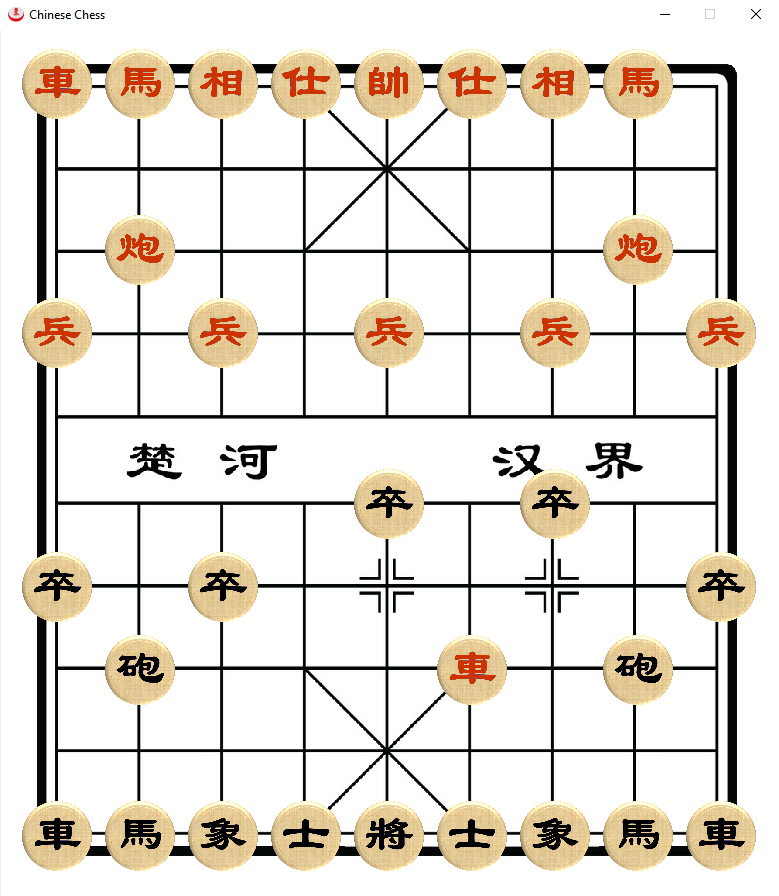
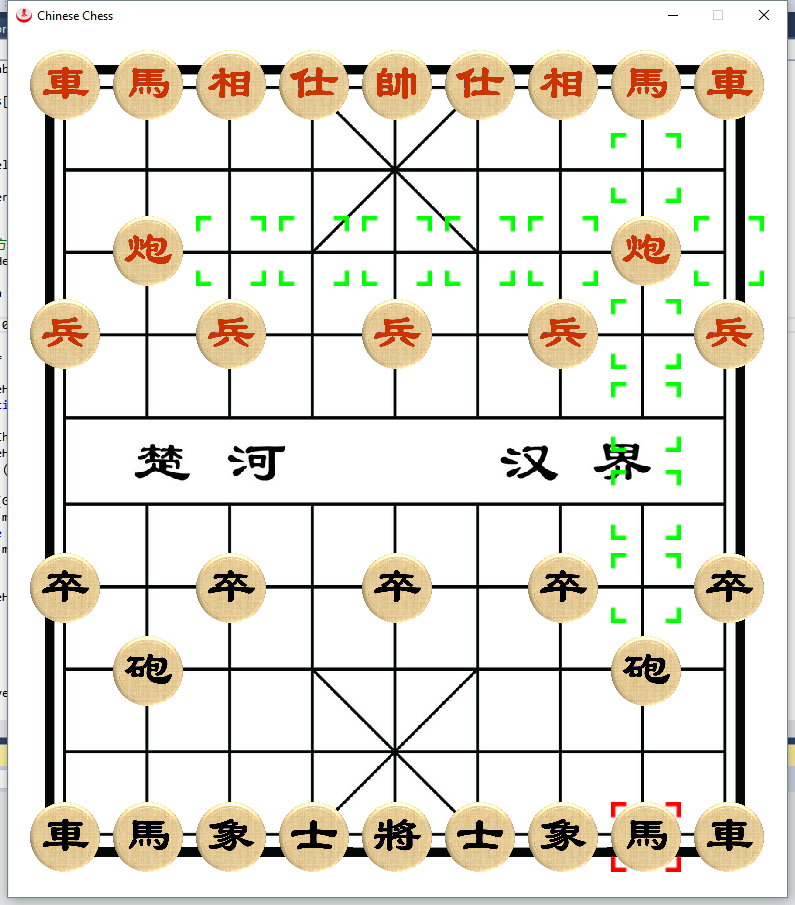
add move tips

Changed region(s): [[0.0, 0.0, 1.0, 1.0], [0.5237, 0.125, 0.5546, 0.1562], [0.4313, 0.125, 0.4621, 0.1562]]

diff --git a/ChineseChess/GameController.cs b/ChineseChess/GameController.cs
@@ -8,17 +8,31 @@ namespace ChineseChess
 {
     class GameController
     {
-        private int[][] chessMan;
-        private bool[][] avalChess;
+        private const int RowSum = 10;  //行总数
+        private const int ColSum = 9;   //列总数
+        private int[][] chessMan;   //代表着全场象棋的数组
+        private bool[][] avalChess; //选择棋子时的可选表
+        private int[][] moveHelper; //移动棋子时的提示表
         private bool whosTurn;
         private const int minX = 0, minY = 0, maxX = 8, maxY = 9;
+
+        public GameController()
+        {
+            //申请空间
+            chessMan = new int[RowSum][];
+            avalChess = new bool[RowSum][];
+            moveHelper = new int[RowSum][];
+            for (int i = 0; i < RowSum; ++i)
+            {
+                chessMan[i] = new int[ColSum];
+                avalChess[i] = new bool[ColSum];
+                moveHelper[i] = new int[ColSum];
+            }
+        }
 
         public void Reset()
         {
             //初始化棋盘
-            chessMan = new int[10][];
-            for (int i = 0; i < chessMan.Length; ++i)
-                chessMan[i] = new int[9];
             for(int i = 0; i < chessMan.Length; ++i)
                 for(int j = 0; j < chessMan[i].Length; ++j)
                     switch (i * chessMan[i].Length + j)
@@ -41,10 +55,7 @@ namespace ChineseChess
                         case 35: chessMan[i][j] = -2; break;  case 54: chessMan[i][j] = 2; break;
                         default: chessMan[i][j] = 0; break;
                     }
-            //初始化先手和可移表
-            avalChess = new bool[10][];
-            for (int i = 0; i < avalChess.Length; ++i)
-                avalChess[i] = new bool[9];
+            //初始化先手和可选棋表
             whosTurn = true;
             TransTurn();
         }
@@ -59,6 +70,39 @@ namespace ChineseChess
         public bool IsAvaliable(int i, int j)
         {
             return avalChess[i][j];
+        }
+
+        //获取移动目标状态
+        public int GetMoveHelper(int i, int j)
+        {
+            return moveHelper[i][j];
+        }
+
+        //设置可移动状态，己方棋子及自身=3，可选敌方棋子=1，可选空位=2，不可选棋子0
+        public void SetMoveHelper(int i, int j)
+        {
+            for(int a = 0; a < RowSum; ++a)
+            {
+                for(int b = 0; b < ColSum; ++b)
+                {
+                    if (i == -1 && j == -1)
+                    {
+                        moveHelper[a][b] = -1;
+                        continue;
+                    }
+                    if (GetChessman(a, b) * GetChessman(i, j) > 0)
+                        moveHelper[a][b] = -1;
+                    else if (CanMove(i, j, a, b) == true)
+                    {
+                        if (GetChessman(a, b) == 0)
+                            moveHelper[a][b] = 2;
+                        else
+                            moveHelper[a][b] = 1;
+                    }
+                    else
+                        moveHelper[a][b] = 0;
+                }
+            }
         }
 
         //游戏结束判断

diff --git a/ChineseChess/Properties/Resources.Designer.cs b/ChineseChess/Properties/Resources.Designer.cs
@@ -203,9 +203,29 @@ namespace ChineseChess.Properties {
         /// <summary>
         ///   Looks up a localized resource of type System.Drawing.Bitmap.
         /// </summary>
+        internal static System.Drawing.Bitmap green {
+            get {
+                object obj = ResourceManager.GetObject("green", resourceCulture);
+                return ((System.Drawing.Bitmap)(obj));
+            }
+        }
+        
+        /// <summary>
+        ///   Looks up a localized resource of type System.Drawing.Bitmap.
+        /// </summary>
         internal static System.Drawing.Bitmap Panel {
             get {
                 object obj = ResourceManager.GetObject("Panel", resourceCulture);
+                return ((System.Drawing.Bitmap)(obj));
+            }
+        }
+        
+        /// <summary>
+        ///   Looks up a localized resource of type System.Drawing.Bitmap.
+        /// </summary>
+        internal static System.Drawing.Bitmap red {
+            get {
+                object obj = ResourceManager.GetObject("red", resourceCulture);
                 return ((System.Drawing.Bitmap)(obj));
             }
         }
